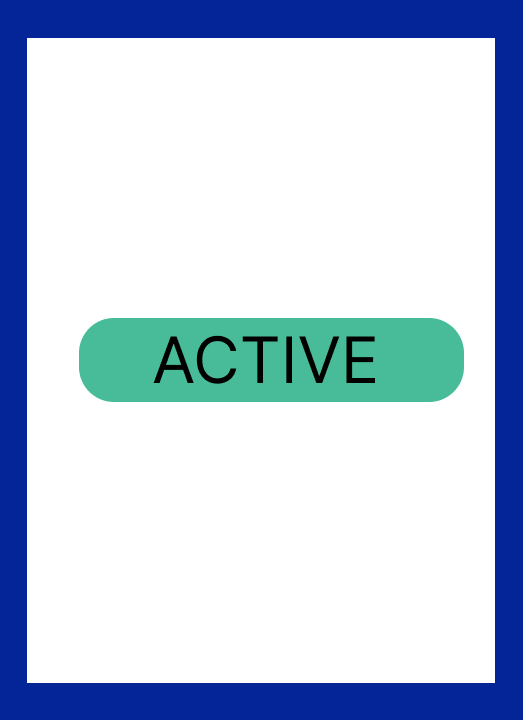
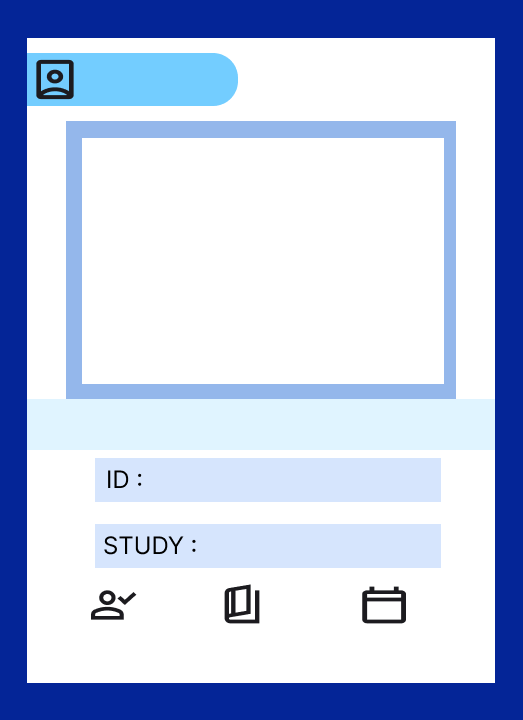
28/11/2023 13.03

Changed region(s): [[0.0306, 0.0611, 0.9484, 0.8861]]

diff --git a/main.py b/main.py
@@ -4,13 +4,28 @@ import numpy as np
 import cv2
 import face_recognition
 import cvzone
+import firebase_admin
+from firebase_admin import credentials
+from firebase_admin import db
+from firebase_admin import storage
+
+# Here we will link the storage to process our images
+
+cred = credentials.Certificate("serviceAccountKey.json")
+
+# link the realtime database url in json format
+firebase_admin.initialize_app(cred, {
+    'databaseURL': "https://ekfacialrecognition-default-rtdb.europe-west1.firebasedatabase.app/",
+    'storageBucket': "ekfacialrecognition.appspot.com"
+})
+
 
 cap = cv2.VideoCapture(0)
 # here we are using default camera sizing, either 1280*720, 640*480 or 320*240 or 160*120
 cap.set(3, 640)
 cap.set(4, 480)
 
-imgBackground = cv2.imread('Resources/fullscope.png')
+imgBackground = cv2.imread('Resources/BackgrdImage.png')
 
 # import the mode images into a list
 folderModePath = 'Resources/Modes'
@@ -30,6 +45,11 @@ file.close()
 encodeListKnown, studentIds = encodeListKnownWithIds
 print(studentIds)
 print("Encode Files Loaded")
+
+
+modeType = 0
+counter = 0
+id = -1
 
 while True:
     success, img = cap.read()
@@ -58,13 +78,48 @@ while True:
 
         # If the minimum value from matchIndex matches our face, it will output Known face detected
         if matches[matchIndex]:
-            print("Known face detected")
-            print(studentIds[matchIndex]) # Now we will output the id of the student of the matched face
+            #print("Known face detected")
+
+            #print(studentIds[matchIndex]) # Now we will output the id of the student of the matched face
 
             y1, x2, y2, x1 = faceLocation
             y1, x2, y2, x1 = y1 * 4, x2 * 4, y2 * 4, x1 * 4
             bbox = 61 + x1, 137 + y1, x2 - x1, y2 - y1 # here we use the measurements of the imgBackground
             imgBackground = cvzone.cornerRect(imgBackground, bbox, rt=0)
+
+            id = studentIds[matchIndex]
+            if counter == 0 :
+                counter =1
+                modeType = 1
+    if counter != 0:
+
+        # above we have set counter = 0. Once theres a face match, counter will chance to 1 ( only once)
+        # once counter ==1, it will get the Students id and prints student info
+        if counter ==1:
+            studentInfo = db.reference(f'Students/{id}').get()
+            print(studentInfo)
+
+        cv2.putText(imgBackground,str(studentInfo['Total_attendance']),(868,88), # the position
+                    cv2.FONT_HERSHEY_COMPLEX,1,(0,0,0),2)
+        cv2.putText(imgBackground,str(studentInfo['Name']),(805,424), # the position
+                    cv2.FONT_HERSHEY_COMPLEX,1,(0,0,0),2)
+        cv2.putText(imgBackground,str(studentInfo['Major']),(973,547), # the position
+                    cv2.FONT_HERSHEY_COMPLEX,1,(0,0,0),2)
+        cv2.putText(imgBackground,str(id),(916,479), # the position
+                    cv2.FONT_HERSHEY_COMPLEX,1,(0,0,0),2)
+        cv2.putText(imgBackground, str(studentInfo['Standing']), (980, 655),  # the position
+                    cv2.FONT_HERSHEY_COMPLEX, 1, (0, 0, 0), 1)
+        cv2.putText(imgBackground, str(studentInfo['Year']), (849, 655),  # the position
+                    cv2.FONT_HERSHEY_COMPLEX, 1, (0, 0, 0), 1)
+        cv2.putText(imgBackground, str(studentInfo['Enrolling_Year']), (1110, 655),  # the position
+                    cv2.FONT_HERSHEY_COMPLEX, 1, (0, 0, 0), 1)
+
+        counter +=1
+
+
+
+
+
 
     cv2.imshow("Face Attendance", imgBackground)
     #  imgBackground[y_offset:y_offset + region_height, x_offset:x_offset + region_width] = img
@@ -72,7 +127,7 @@ while True:
 
     # imgModeList[0] = Full details, imgModeList[1] = Active, imgModeList[2] = Marked, imgModeList[3] = Already Marked
     # here we are joining Image from the Modes to the main (background)
-    imgBackground[0:0 + 720, 757:757 + 523] = imgModeList[1]
+    imgBackground[0:0 + 720, 757:757 + 523] = imgModeList[modeType]
 
 
 

diff --git a/AddDataDatabase.py b/AddDataDatabase.py
@@ -18,8 +18,8 @@ data = {
             "Name": "Hariharan Elangovan",
             "Major": "Informatics",
             "Enrolling_Year": "2020",
-            "Total_attendence": 5,
-            "Standing": "G",  # G for good
+            "Total_attendance": 5,
+            "Standing": 4.6,  # G for good
             "Year": 4,
             "Last_attendance_time": "2023-11-28 01:58:33"
 
@@ -29,8 +29,8 @@ data = {
             "Name": "Alexandra Daddario",
             "Major": "Data Finance",
             "Enrolling_Year": "2021",
-            "Total_attendence": 5,
-            "Standing": "G",  # G for good
+            "Total_attendance": 5,
+            "Standing": 5.0,  # G for good
             "Year": 5,
             "Last_attendance_time": "2023-11-11 01:58:33"
 
@@ -40,8 +40,8 @@ data = {
             "Name": "Tony Stark",
             "Major": "Computer Science",
             "Enrolling_Year": "2023",
-            "Total_attendence": 0,
-            "Standing": "B",  # G for good
+            "Total_attendance": 0,
+            "Standing": 3.0,  # G for good
             "Year": 1,
             "Last_attendance_time": "2023-1-1 11:58:33"
 
